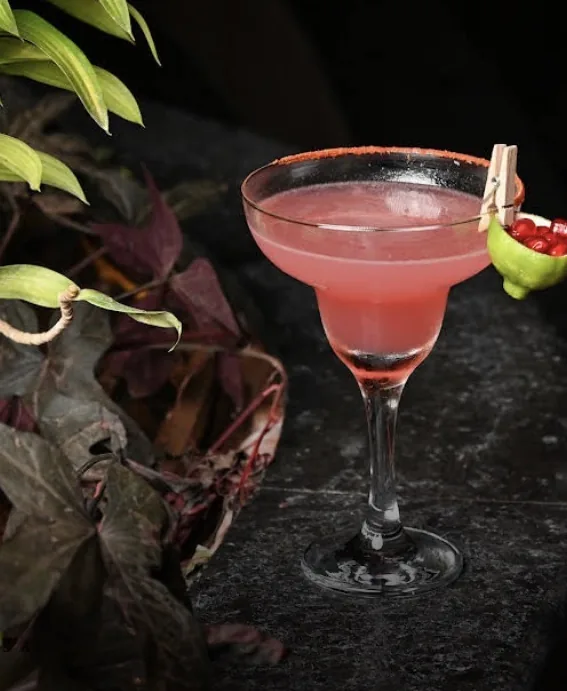
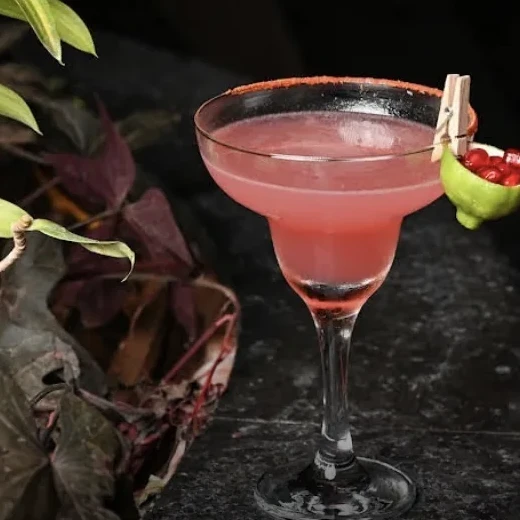
fix(cocktails): center cocktail glass in pomrita photo and lock mobile card visual dimensions

diff --git a/macbrewfarm-site/css/styles.css b/macbrewfarm-site/css/styles.css
@@ -1294,9 +1294,11 @@ html.cursor-hover .cursor-ring {
   /* Cocktails Showcase on Mobile */
   .ck-stage-grid {
     gap: 1.25rem;
-    grid-template-columns: minmax(0, 1fr);
+    grid-template-columns: 1fr;
   }
   .ck-feature-card {
+    display: flex;
+    flex-direction: column;
     padding: 1.15rem 1rem;
     border-radius: 20px;
     gap: 1.15rem;
@@ -1317,12 +1319,20 @@ html.cursor-hover .cursor-ring {
     filter: blur(28px);
   }
   .ck-image-box {
-    width: 100%;
-    max-width: 220px;
-    margin-inline: auto;
+    width: min(210px, 60vw);
+    height: min(210px, 60vw);
     aspect-ratio: 1 / 1;
+    margin: 0 auto;
     border-radius: 16px;
     box-shadow: 0 10px 24px rgba(0, 0, 0, 0.35);
+    flex-shrink: 0;
+    overflow: hidden;
+  }
+  .ck-active-img {
+    width: 100%;
+    height: 100%;
+    object-fit: cover;
+    object-position: center;
   }
   .ck-card-content {
     gap: 0.75rem;
@@ -1486,9 +1496,11 @@ html.cursor-hover .cursor-ring {
     padding: 0.25rem 0.7rem;
   }
   .lab-drink-visual {
-    width: clamp(120px, 35vw, 160px);
+    width: min(150px, 42vw);
+    height: min(150px, 42vw);
     margin: 0.25rem auto;
-    aspect-ratio: 1;
+    aspect-ratio: 1 / 1;
+    flex-shrink: 0;
   }
   .lab-drink-halo {
     filter: blur(20px);

diff --git a/macbrewfarm-site/index.html b/macbrewfarm-site/index.html
@@ -21,7 +21,7 @@
   <link rel="preconnect" href="https://fonts.gstatic.com" crossorigin>
   <link rel="stylesheet" href="https://fonts.googleapis.com/css2?family=Cormorant+Garamond:ital,wght@0,400;0,500;0,600;0,700;1,400;1,500;1,600&family=Josefin+Sans:ital,wght@0,300;0,400;0,500;0,600;1,300;1,400&display=swap">
   
-  <link rel="stylesheet" href="css/styles.css">
+  <link rel="stylesheet" href="css/styles.css?v=1.3.0">
 
   <!-- Vercel Web Analytics & Speed Insights -->
   <script>
